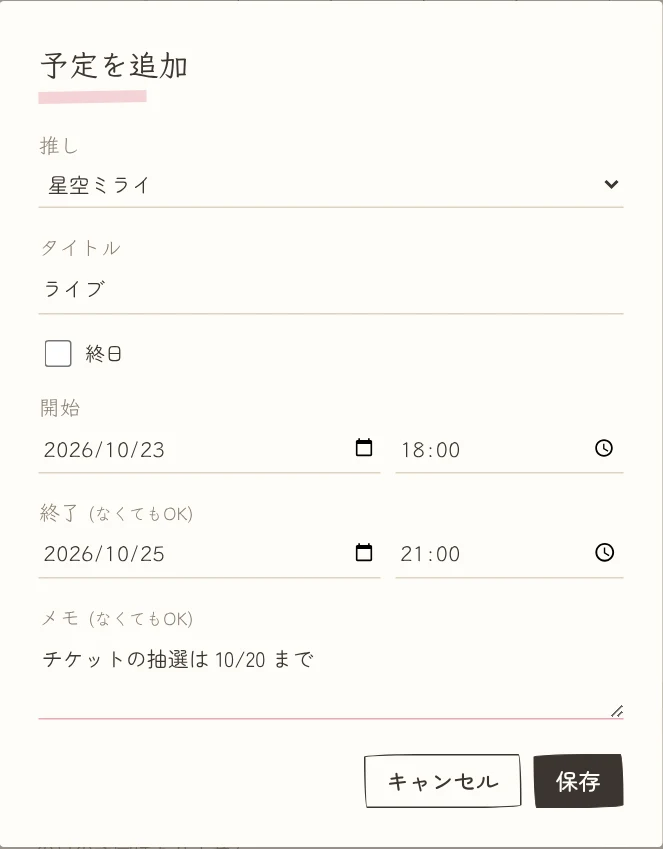
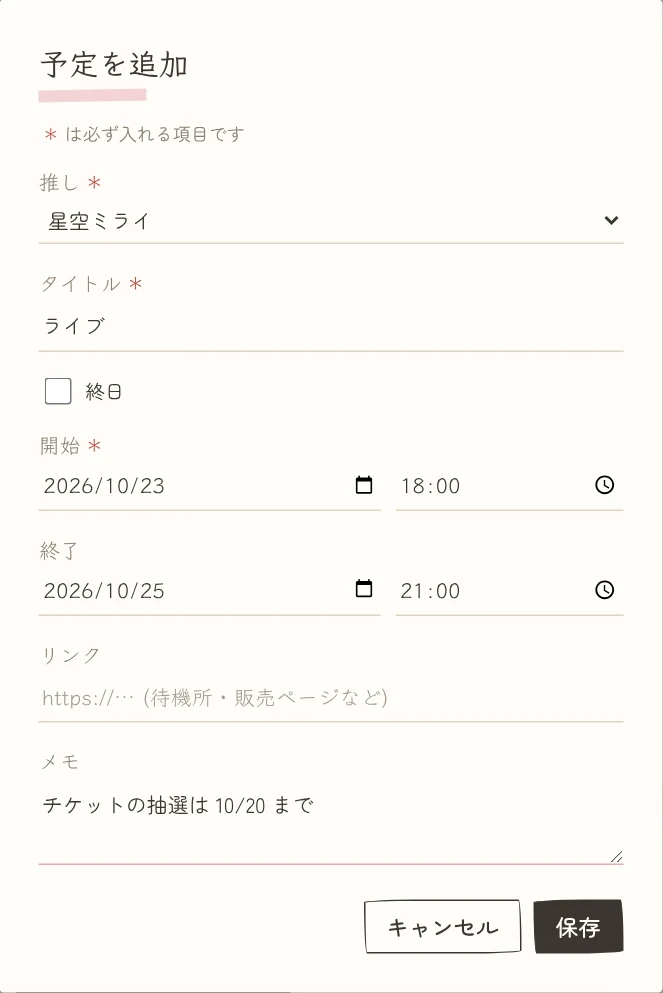
予定の追加画面: 「(なくてもOK)」を消して、必ず入れる項目に ＊ を付ける
Claude-Session: https://claude.ai/code/session_01TtRufu2XhManK9q9q8tut5

diff --git a/index.html b/index.html
@@ -20,7 +20,7 @@
   <script src="theme.js?v=20261019-1"></script>
   <!-- ?v=… は「バージョン番号」。アプリを更新したら数字を変えると、
        スマホなどに残っている古いファイルではなく、新しいファイルが必ず読み込まれる -->
-  <link rel="stylesheet" href="style.css?v=20261020-1">
+  <link rel="stylesheet" href="style.css?v=20261020-2">
 </head>
 <body>
   <!-- 読み込み中の表示 -->
@@ -118,18 +118,19 @@
   <dialog id="dlg-event">
     <form method="dialog">
       <h2 id="event-title" tabindex="-1" autofocus>予定を追加</h2>
+      <p class="hint ev-req-hint"><span class="req">＊</span> は必ず入れる項目です</p>
       <div class="ev-form">
-        <label>推し<select id="ev-vtuber" required></select></label>
-        <label>タイトル<input id="ev-title" type="text" maxlength="100" required pattern=".*\S.*" placeholder="例: 誕生日配信" autocomplete="off"></label>
+        <label>推し<span class="req" aria-hidden="true">＊</span><select id="ev-vtuber" required></select></label>
+        <label>タイトル<span class="req" aria-hidden="true">＊</span><input id="ev-title" type="text" maxlength="100" required pattern=".*\S.*" placeholder="例: 誕生日配信" autocomplete="off"></label>
         <label class="countdown-check ev-allday"><input type="checkbox" id="ev-allday"> 終日</label>
-        <div class="ev-label">開始
+        <div class="ev-label">開始<span class="req" aria-hidden="true">＊</span>
           <span class="ev-dt"><input id="ev-date" type="date" required aria-label="開始日"><input id="ev-time" class="ev-time-input" type="time" aria-label="開始時刻"></span>
         </div>
-        <div class="ev-label">終了 <small>(なくてもOK)</small>
+        <div class="ev-label">終了
           <span class="ev-dt"><input id="ev-end-date" type="date" aria-label="終了日"><input id="ev-end-time" class="ev-time-input" type="time" aria-label="終了時刻"></span>
         </div>
-        <label>リンク <small>(なくてもOK)</small><input id="ev-url" type="url" maxlength="2000" placeholder="https://… (待機所・販売ページなど)" autocomplete="off" spellcheck="false"></label>
-        <label>メモ <small>(なくてもOK)</small><textarea id="ev-memo" rows="2" maxlength="1000"></textarea></label>
+        <label>リンク<input id="ev-url" type="url" maxlength="2000" placeholder="https://… (待機所・販売ページなど)" autocomplete="off" spellcheck="false"></label>
+        <label>メモ<textarea id="ev-memo" rows="2" maxlength="1000"></textarea></label>
       </div>
       <div class="dlg-buttons">
         <button type="button" id="ev-delete" class="danger" hidden>削除</button>

diff --git a/manual.html b/manual.html
@@ -15,7 +15,7 @@
   <script src="theme.js?v=20261019-1"></script>
   <!-- ?v=… は「バージョン番号」。アプリを更新したら数字を変えると、
        スマホなどに残っている古いファイルではなく、新しいファイルが必ず読み込まれる -->
-  <link rel="stylesheet" href="style.css?v=20261020-1">
+  <link rel="stylesheet" href="style.css?v=20261020-2">
   <!-- デザインのファイルが読み込めなくても、画像が画面からはみ出さないようにする最低限の設定 -->
   <style>
     img { max-width: 100%; height: auto; }
@@ -233,7 +233,7 @@
 
       <h3>予定を追加する</h3>
       <p>グッズの販売日やライブなど、推しの予定を登録できます。</p>
-      <figure><img src="manual/event-add.webp?v=20261019" alt="予定を追加する画面" loading="lazy" class="narrow"></figure>
+      <figure><img src="manual/event-add.webp?v=20261020" alt="予定を追加する画面" loading="lazy" class="narrow"></figure>
       <ul>
         <li><b>推し</b>：どの推しの予定かを選びます（最後に予定を入れた推しが最初から選ばれています）</li>
         <li><b>タイトル</b>：予定の名前（例：グッズ販売、ライブ）。必ず入れます</li>

diff --git a/style.css b/style.css
@@ -1189,3 +1189,6 @@ dialog label.ev-allday { margin: 0 0 12px; }
 .bday-banner .banner-events li { display: flex; flex-direction: column; align-items: flex-start; }
 .ev-form input[type=url] { width: 100%; padding: 6px 2px; border: none; border-bottom: 1.5px solid var(--line); background: transparent; outline: none; color: var(--ink); }
 .ev-form input[type=url]:focus { border-bottom-color: var(--pink); }
+/* 予定の追加画面: 必ず入れる項目の「＊」 */
+.req { color: var(--danger); margin-left: 2px; }
+.ev-req-hint { margin: -6px 0 12px; }
